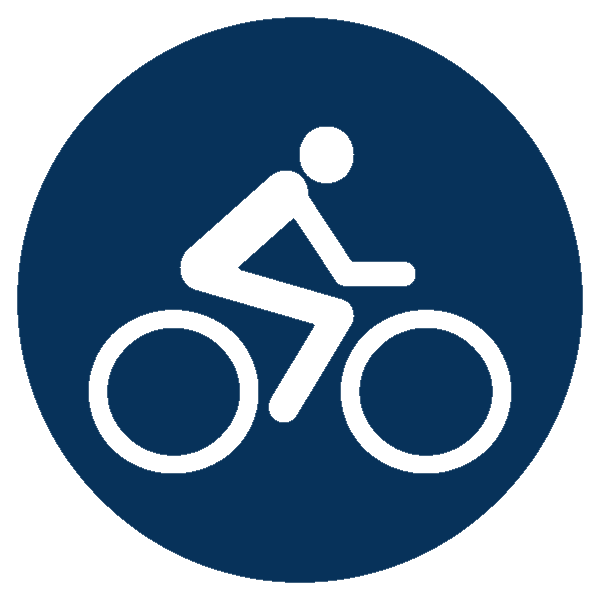
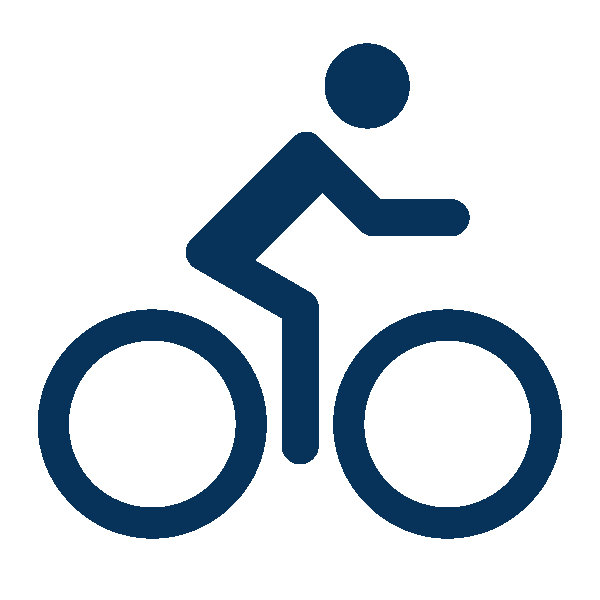
Add custom hook useGPS. Add graphics/adjust graphics. Fix weather results layout in Today.js component. Add serviceWorker for future offline functionality.

diff --git a/src/serviceWorker.js b/src/serviceWorker.js
@@ -1,0 +1,141 @@
+// This optional code is used to register a service worker.
+// register() is not called by default.
+
+// This lets the app load faster on subsequent visits in production, and gives
+// it offline capabilities. However, it also means that developers (and users)
+// will only see deployed updates on subsequent visits to a page, after all the
+// existing tabs open on the page have been closed, since previously cached
+// resources are updated in the background.
+
+// To learn more about the benefits of this model and instructions on how to
+// opt-in, read https://bit.ly/CRA-PWA
+
+const isLocalhost = Boolean(
+  window.location.hostname === 'localhost' ||
+    // [::1] is the IPv6 localhost address.
+    window.location.hostname === '[::1]' ||
+    // 127.0.0.0/8 are considered localhost for IPv4.
+    window.location.hostname.match(
+      /^127(?:\.(?:25[0-5]|2[0-4][0-9]|[01]?[0-9][0-9]?)){3}$/
+    )
+);
+
+export function register(config) {
+  if (process.env.NODE_ENV === 'production' && 'serviceWorker' in navigator) {
+    // The URL constructor is available in all browsers that support SW.
+    const publicUrl = new URL(process.env.PUBLIC_URL, window.location.href);
+    if (publicUrl.origin !== window.location.origin) {
+      // Our service worker won't work if PUBLIC_URL is on a different origin
+      // from what our page is served on. This might happen if a CDN is used to
+      // serve assets; see https://github.com/facebook/create-react-app/issues/2374
+      return;
+    }
+
+    window.addEventListener('load', () => {
+      const swUrl = `${process.env.PUBLIC_URL}/service-worker.js`;
+
+      if (isLocalhost) {
+        // This is running on localhost. Let's check if a service worker still exists or not.
+        checkValidServiceWorker(swUrl, config);
+
+        // Add some additional logging to localhost, pointing developers to the
+        // service worker/PWA documentation.
+        navigator.serviceWorker.ready.then(() => {
+          console.log(
+            'This web app is being served cache-first by a service ' +
+              'worker. To learn more, visit https://bit.ly/CRA-PWA'
+          );
+        });
+      } else {
+        // Is not localhost. Just register service worker
+        registerValidSW(swUrl, config);
+      }
+    });
+  }
+}
+
+function registerValidSW(swUrl, config) {
+  navigator.serviceWorker
+    .register(swUrl)
+    .then(registration => {
+      registration.onupdatefound = () => {
+        const installingWorker = registration.installing;
+        if (installingWorker == null) {
+          return;
+        }
+        installingWorker.onstatechange = () => {
+          if (installingWorker.state === 'installed') {
+            if (navigator.serviceWorker.controller) {
+              // At this point, the updated precached content has been fetched,
+              // but the previous service worker will still serve the older
+              // content until all client tabs are closed.
+              console.log(
+                'New content is available and will be used when all ' +
+                  'tabs for this page are closed. See https://bit.ly/CRA-PWA.'
+              );
+
+              // Execute callback
+              if (config && config.onUpdate) {
+                config.onUpdate(registration);
+              }
+            } else {
+              // At this point, everything has been precached.
+              // It's the perfect time to display a
+              // "Content is cached for offline use." message.
+              console.log('Content is cached for offline use.');
+
+              // Execute callback
+              if (config && config.onSuccess) {
+                config.onSuccess(registration);
+              }
+            }
+          }
+        };
+      };
+    })
+    .catch(error => {
+      console.error('Error during service worker registration:', error);
+    });
+}
+
+function checkValidServiceWorker(swUrl, config) {
+  // Check if the service worker can be found. If it can't reload the page.
+  fetch(swUrl, {
+    headers: { 'Service-Worker': 'script' },
+  })
+    .then(response => {
+      // Ensure service worker exists, and that we really are getting a JS file.
+      const contentType = response.headers.get('content-type');
+      if (
+        response.status === 404 ||
+        (contentType != null && contentType.indexOf('javascript') === -1)
+      ) {
+        // No service worker found. Probably a different app. Reload the page.
+        navigator.serviceWorker.ready.then(registration => {
+          registration.unregister().then(() => {
+            window.location.reload();
+          });
+        });
+      } else {
+        // Service worker found. Proceed as normal.
+        registerValidSW(swUrl, config);
+      }
+    })
+    .catch(() => {
+      console.log(
+        'No internet connection found. App is running in offline mode.'
+      );
+    });
+}
+
+export function unregister() {
+  if ('serviceWorker' in navigator) {
+    navigator.serviceWorker.ready
+      .then(registration => {
+        registration.unregister();
+      })
+      .catch(error => {
+        console.error(error.message);
+      });
+  }
+}

diff --git a/src/App.js b/src/App.js
@@ -3,22 +3,12 @@ import axios from 'axios';
 import Today from './Today';
 import './App.css';
 import SearchBar from './SearchBar';
+import { useGPS } from './UseGPS';
 
 const App = () => {
-
-  const [gps, setGps] = useState('')
-  const [weather, setWeather] = useState({})
-  
-  // Attempt geolocation for user and make API call with GPS results as search parameter
-  const gpsFunction = () => {
-    if (navigator.geolocation) {
-        navigator.geolocation.getCurrentPosition(position => setGps(
-              [position.coords.latitude.toFixed(2), position.coords.longitude.toFixed(2)]
-          ), e => console.error(e))
-        };
-    }
-
-  useEffect(() => gpsFunction(), [])
+  const [weather, setWeather] = useState(null)
+  const gps = useGPS()
+ 
   useEffect(() => {
     if (gps) {
     axios.get('http://localhost:3001', {
@@ -32,6 +22,8 @@ const App = () => {
     } 
   }, [gps])
   
+
+
   const onCitySubmit = useCallback(city => {
     axios
       .get('http://localhost:3001/search', {
@@ -47,12 +39,14 @@ const App = () => {
 
   const GetWeather = () => {
     // If geolocation is off or fails give user search blank
-    if (!navigator.geolocation || !gps) {
-      return <div className="container">
-        <SearchBar 
-          onSubmit={onCitySubmit}
-        />
-      </div>
+    if (!weather) {
+      if (!weather || !navigator.geolocation || !gps) {
+        return <div className="container">
+          <SearchBar 
+            onSubmit={onCitySubmit}
+          />
+        </div>
+      }
     }
     // If geolocation succeeds render results
     return <div className="container">
@@ -63,6 +57,8 @@ const App = () => {
           wind={weather.data[0].wind_spd}
           rain={weather.data[0].pop}
           date={weather.data[0].datetime}
+          city={weather.city_name}
+          state={weather.state_code}
         />
       }
     </div>

diff --git a/src/Today.js b/src/Today.js
@@ -13,11 +13,12 @@ const Today = (props) => {
   }
 
   const date = props.date.split("-")
-
+  console.log(props.city)
   return(
     <div>
     <div className="card">
-      <h2 className="cardTitle">Today: {date[1]}/{date[2]}</h2>
+      <h2 className="cardTitle">{props.city}, {props.state}</h2>
+      <h3 className="date">{date[1]}/{date[2]}</h3>
       <img src={dayEvaluation() ? "bike.png" : "noBike.png"} style={{maxWidth: "100px"}} alt="" />
       <div className="cardBody">
         <p className="topRow">{`High: ${props.high}F`}</p>
@@ -27,7 +28,7 @@ const Today = (props) => {
       </div>
     </div>
       
-      <p>Today is {dayEvaluation() ? 'a' : 'not a'} good day for a ride.</p>
+      <p>{dayEvaluation() ? "It's a good day, let's go ride!" : 'Maybe not today...'}</p>
     </div>
     
   )

diff --git a/src/UseGPS.js b/src/UseGPS.js
@@ -1,0 +1,19 @@
+import { useState, useEffect, useCallback } from "react";
+
+export const useGPS = () => {
+
+  // gps returns as an array of latitude and longitude
+  const [gps, setGps] = useState(null)
+  
+  // Attempt geolocation for user and make API call with GPS results as search parameter
+ const gpsFunction = useCallback(() => {
+  if (navigator.geolocation) {
+      navigator.geolocation.getCurrentPosition(position => setGps(
+            [position.coords.latitude.toFixed(2), position.coords.longitude.toFixed(2)]
+        ), e => console.error(e))        
+      };
+  }, [])
+
+  useEffect(() => gpsFunction(), [gpsFunction])
+  return gps
+}

diff --git a/src/SearchBar.js b/src/SearchBar.js
@@ -19,12 +19,13 @@ const SearchBar = (props) => {
             onChange={e => setCity(e.target.value)} 
             value={city} 
             className="searchTerm" 
-            placeholder="Enter City" 
+            placeholder="Enter City and State" 
           />
       <button type="submit" className="searchButton">
         <img src='search.svg' alt='submit search' />
       </button>
       </form>
+      <img src="queryBike.png" style={{maxWidth: "150px"}} alt="" />
     </div> 
     </div>
   )

diff --git a/src/index.js b/src/index.js
@@ -2,6 +2,7 @@ import React from 'react';
 import ReactDOM from 'react-dom';
 import './index.css';
 import App from './App';
+import * as serviceWorker from './serviceWorker';
 
 ReactDOM.render(
   <React.StrictMode>
@@ -11,3 +12,6 @@ ReactDOM.render(
 );
 
 ReactDOM.render( <App />, document.getElementById('root'));
+
+// We want to change this before publishing, but read this first https://create-react-app.dev/docs/making-a-progressive-web-app/
+serviceWorker.unregister();

diff --git a/src/SearchBar.css b/src/SearchBar.css
@@ -2,6 +2,7 @@
   width: 100%;
   position: relative;
   display: flex;
+  margin-bottom: 10px;
 }
 
 .searchTerm {
@@ -30,12 +31,3 @@
   cursor: pointer;
   font-size: 20px;
 }
-
-/*Resize the wrap to see the search bar change!*/
-/* .wrap{
-  width: 30%;
-  position: absolute;
-  top: 50%;
-  left: 50%;
-  transform: translate(-50%, -50%);
-} */

diff --git a/src/Today.css b/src/Today.css
@@ -12,11 +12,17 @@
   margin-bottom: 10px;
 }
 
+.date {
+  font-size: 1.5rem;
+  font-weight: 400;
+  margin: 0 auto;
+  margin-bottom: 10px;
+}
+
 .cardBody {
   display: grid;
   grid-template-rows: 3rem 3rem;
   grid-template-columns: 1fr 1fr;
-  /* row-gap: 1rem; */
   column-gap: 1.5rem;
   margin: 0 0;
 }

diff --git a/src/App.css b/src/App.css
@@ -1,5 +1,5 @@
 .container {
-  width:  65vw;
+  width:  70vw;
   margin: 0 auto;
   text-align: center;
 }

diff --git a/src/preferences.js b/src/preferences.js
@@ -1,6 +1,6 @@
 const preferences = {
   high: 65,
-  rain: 15,
+  rain: 25,
   wind: 10
 }
 
